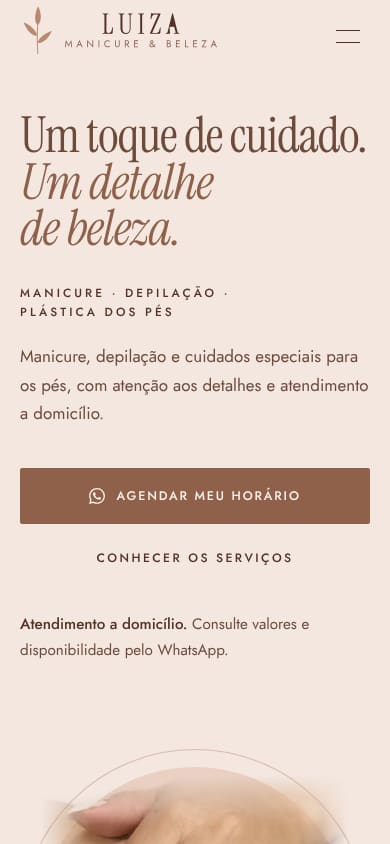
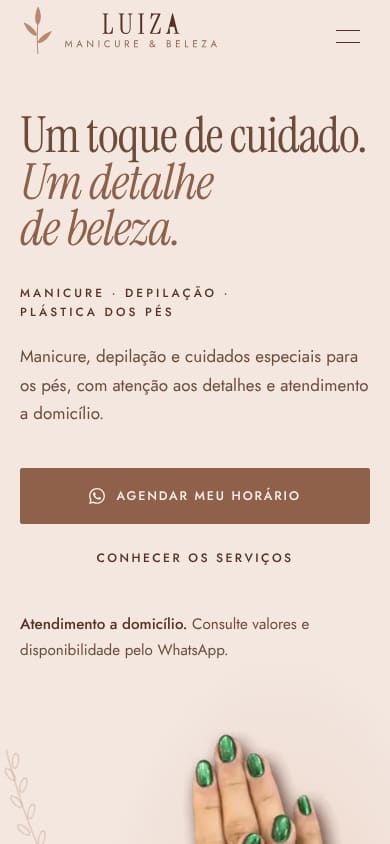
LUIZA: hero no estilo das referências com as unhas verdes
Mãos (verde metalizado) entrando pelo canto inferior direito da tela,
sem moldura, com luz de estúdio e ramo em traço fino; painel do
atendimento a domicílio com foto de fundo; galeria em fileira rolável
com as cinco fotos novas.

Claude-Session: https://claude.ai/code/session_016UG3UNeCQEzYNP7inJMp9g

Changed region(s): [[0.0923, 0.8626, 0.8615, 1.0]]

diff --git a/luiza-manicure/src/components/PortfolioGallery.tsx b/luiza-manicure/src/components/PortfolioGallery.tsx
@@ -14,6 +14,33 @@ export function PortfolioGallery() {
   const triggerRefs = useRef<(HTMLButtonElement | null)[]>([]);
   const touchX = useRef<number | null>(null);
   const lastIndex = useRef(0);
+  const rowRef = useRef<HTMLUListElement>(null);
+  const [canPrev, setCanPrev] = useState(false);
+  const [canNext, setCanNext] = useState(true);
+
+  useEffect(() => {
+    const row = rowRef.current;
+    if (!row) return;
+    const update = () => {
+      setCanPrev(row.scrollLeft > 4);
+      setCanNext(row.scrollLeft + row.clientWidth < row.scrollWidth - 4);
+    };
+    update();
+    row.addEventListener("scroll", update, { passive: true });
+    window.addEventListener("resize", update);
+    return () => {
+      row.removeEventListener("scroll", update);
+      window.removeEventListener("resize", update);
+    };
+  }, []);
+
+  const scrollRow = (dir: number) => {
+    const row = rowRef.current;
+    if (!row) return;
+    const item = row.querySelector("li");
+    const step = item ? item.getBoundingClientRect().width + 20 : row.clientWidth * 0.8;
+    row.scrollBy({ left: dir * step, behavior: "smooth" });
+  };
 
   const open = (i: number) => {
     lastIndex.current = i;
@@ -68,35 +95,62 @@ export function PortfolioGallery() {
           <p className="lede mx-auto mt-6">Conheça alguns dos trabalhos realizados pela LUIZA.</p>
         </Reveal>
 
-        <ul className="mt-14 grid grid-cols-2 gap-3 sm:gap-4 md:mt-20 lg:grid-cols-4 lg:gap-5">
-          {GALLERY.map((photo, i) => (
-            <li key={photo.id}>
-              <MaskReveal delay={i * 0.1}>
-                <button
-                  ref={(el) => {
-                    triggerRefs.current[i] = el;
-                  }}
-                  type="button"
-                  onClick={() => open(i)}
-                  className="photo-frame photo-zoom group relative block aspect-[4/5] w-full cursor-zoom-in rounded-[12px] text-left"
-                  aria-label={`Ampliar foto: ${photo.label}`}
-                  aria-haspopup="dialog"
-                >
-                  <Image src={photo.src} alt={photo.alt} fill sizes="(min-width: 1024px) 300px, 48vw" className="object-cover" />
-                  <span
-                    aria-hidden="true"
-                    className="absolute right-3 top-3 inline-flex size-10 items-center justify-center rounded-full bg-porcelana/90 text-cacau opacity-0 transition-opacity duration-300 group-hover:opacity-100 group-focus-visible:opacity-100 max-lg:opacity-100"
+        <div className="relative mt-14 md:mt-20">
+          <ul
+            ref={rowRef}
+            className="gallery-row -mx-[var(--gutter)] flex snap-x snap-mandatory gap-3 overflow-x-auto scroll-px-[var(--gutter)] px-[var(--gutter)] pb-2 sm:gap-4 lg:mx-0 lg:scroll-px-0 lg:gap-5 lg:px-0"
+            aria-label="Fotos de trabalhos"
+          >
+            {GALLERY.map((photo, i) => (
+              <li
+                key={photo.id}
+                className="w-[72%] shrink-0 snap-start sm:w-[44%] lg:w-[calc((100%-3*1.25rem)/4)]"
+              >
+                <MaskReveal delay={Math.min(i, 3) * 0.1}>
+                  <button
+                    ref={(el) => {
+                      triggerRefs.current[i] = el;
+                    }}
+                    type="button"
+                    onClick={() => open(i)}
+                    className="photo-frame photo-zoom group relative block aspect-[4/5] w-full cursor-zoom-in rounded-[12px] text-left"
+                    aria-label={`Ampliar foto: ${photo.label}`}
+                    aria-haspopup="dialog"
                   >
-                    <IconExpand size={18} />
-                  </span>
-                  <span className="caps absolute bottom-4 left-4 text-[0.66rem] text-cacau-soft opacity-0 transition-opacity duration-300 group-hover:opacity-100">
-                    {photo.label}
-                  </span>
-                </button>
-              </MaskReveal>
-            </li>
-          ))}
-        </ul>
+                    <Image src={photo.src} alt={photo.alt} fill sizes="(min-width: 1024px) 300px, 72vw" className="object-cover" />
+                    <span
+                      aria-hidden="true"
+                      className="absolute right-3 top-3 inline-flex size-10 items-center justify-center rounded-full bg-porcelana/90 text-cacau opacity-0 transition-opacity duration-300 group-hover:opacity-100 group-focus-visible:opacity-100 max-lg:opacity-100"
+                    >
+                      <IconExpand size={18} />
+                    </span>
+                  </button>
+                </MaskReveal>
+              </li>
+            ))}
+          </ul>
+          {/* setas da fileira, como na referência */}
+          <div className="mt-6 flex justify-end gap-3">
+            <button
+              type="button"
+              onClick={() => scrollRow(-1)}
+              disabled={!canPrev}
+              className="inline-flex size-12 rotate-180 items-center justify-center rounded-full border border-cacau/25 text-cacau transition-[background-color,opacity] hover:bg-tile disabled:opacity-35"
+              aria-label="Ver fotos anteriores"
+            >
+              <IconChevron size={20} />
+            </button>
+            <button
+              type="button"
+              onClick={() => scrollRow(1)}
+              disabled={!canNext}
+              className="inline-flex size-12 items-center justify-center rounded-full border border-cacau/25 text-cacau transition-[background-color,opacity] hover:bg-tile disabled:opacity-35"
+              aria-label="Ver mais fotos"
+            >
+              <IconChevron size={20} />
+            </button>
+          </div>
+        </div>
       </div>
 
       <dialog

diff --git a/luiza-manicure/src/components/Hero.tsx b/luiza-manicure/src/components/Hero.tsx
@@ -5,52 +5,24 @@ import { WhatsAppButton } from "./WhatsAppButton";
 
 const d = (i: number) => ({ "--i": i }) as React.CSSProperties;
 
-/** Composição: arco nude com as mãos reais (fundo removido) subindo da base. */
-function HeroVisual({ className = "" }: { className?: string }) {
-  const photo = PHOTOS.hero;
-  return (
-    <div className={`relative overflow-hidden ${className}`}>
-      {/* ramos atrás do arco: aparecem só pelas bordas */}
-      <Sprig className="arch-in-late pointer-events-none absolute bottom-[2%] left-[1%] h-[48%] w-auto -rotate-[16deg] text-rose sm:left-[4%]" />
-      <Sprig className="arch-in-late pointer-events-none absolute right-[1%] top-[14%] h-[34%] w-auto rotate-[168deg] -scale-x-100 text-rose/80 sm:right-[4%]" />
-      {/* arco de fundo + contorno fino */}
-      <div
-        aria-hidden="true"
-        className="hero-arch arch-in absolute bottom-0 left-1/2 h-[86%] w-[80%] max-w-[500px] -translate-x-1/2 rounded-t-full"
-      />
-      <div
-        aria-hidden="true"
-        className="arch-in-late absolute bottom-0 left-1/2 h-[calc(86%+18px)] w-[calc(80%+36px)] max-w-[536px] -translate-x-1/2 rounded-t-full border border-b-0 border-rose/45"
-      />
-      <div className="hands-in absolute inset-x-0 bottom-[6%] flex h-[78%] justify-center">
-        <Image
-          src={photo.src}
-          alt={photo.alt}
-          width={photo.width}
-          height={photo.height}
-          preload
-          fetchPriority="high"
-          sizes="(min-width: 1024px) 520px, 72vw"
-          className="hero-hands h-full w-auto max-w-none select-none"
-          draggable={false}
-        />
-      </div>
-      <p className="caps absolute bottom-5 right-3 z-10 hidden bg-blush/92 px-3.5 py-1.5 text-[0.66rem] text-cacau backdrop-blur-sm sm:block lg:bottom-8 lg:right-0">
-        Trabalho real da Luiza
-      </p>
-    </div>
-  );
-}
-
+/**
+ * Hero no estilo das referências (Maison Nail Atelier / Nail Concept):
+ * texto à esquerda e as mãos reais entrando pelo canto inferior direito da tela,
+ * sobre o mesmo fundo da página, com luz suave de estúdio.
+ */
 export function Hero() {
+  const photo = PHOTOS.hero;
   return (
     <section
       id="inicio"
       aria-labelledby="hero-title"
-      className="relative bg-blush pt-[var(--header-h)]"
+      className="relative isolate overflow-x-clip bg-blush pt-[var(--header-h)] lg:min-h-[min(100svh,960px)]"
     >
-      <div className="shell grid lg:min-h-[calc(min(100svh,940px)-var(--header-h))] lg:grid-cols-12 lg:gap-x-8">
-        <div className="relative z-10 pb-10 pt-10 sm:pt-16 lg:col-span-6 lg:self-center lg:py-24">
+      {/* luz de estúdio atrás das mãos */}
+      <div aria-hidden="true" className="hero-glow absolute inset-0 -z-10" />
+
+      <div className="shell relative z-10 grid lg:min-h-[calc(min(100svh,960px)-var(--header-h))] lg:grid-cols-12">
+        <div className="pb-6 pt-10 sm:pt-16 lg:col-span-6 lg:self-center lg:py-24 lg:pr-6">
           <h1 id="hero-title" className="display text-cacau-soft lg:text-[clamp(3.4rem,5vw,4.9rem)]">
             <span className="enter block" style={d(0)}>
               Um toque de cuidado.
@@ -81,8 +53,27 @@ export function Hero() {
             disponibilidade pelo WhatsApp.
           </p>
         </div>
+      </div>
 
-        <HeroVisual className="-mx-[var(--gutter)] h-[min(116vw,600px)] sm:mx-0 lg:col-span-6 lg:h-auto lg:min-h-[560px]" />
+      {/* Mãos reais entrando pelo canto inferior direito */}
+      <div className="relative h-[min(124vw,560px)] overflow-hidden sm:h-[600px] lg:absolute lg:bottom-0 lg:right-0 lg:top-[var(--header-h)] lg:h-auto lg:w-[50%]">
+        <Sprig className="arch-in-late pointer-events-none absolute left-[6%] top-[10%] h-[34%] w-auto -rotate-[24deg] text-rose/70 lg:left-[8%] lg:top-[14%]" />
+        <div className="hands-in absolute bottom-0 right-0 h-[96%] lg:h-[94%]">
+          <Image
+            src={photo.src}
+            alt={photo.alt}
+            width={photo.width}
+            height={photo.height}
+            preload
+            fetchPriority="high"
+            sizes="(min-width: 1024px) 560px, 80vw"
+            className="h-full w-auto max-w-none select-none"
+            draggable={false}
+          />
+        </div>
+        <p className="caps absolute bottom-6 left-[var(--gutter)] z-10 bg-blush/92 px-3.5 py-1.5 text-[0.66rem] text-cacau backdrop-blur-sm lg:bottom-auto lg:left-auto lg:right-[calc(max(0px,(100vw_-_1280px)/2)_+_var(--gutter))] lg:top-6">
+          Trabalho real da Luiza
+        </p>
       </div>
 
       {/* Monograma em cápsula na divisa com a faixa de diferenciais */}

diff --git a/luiza-manicure/src/components/HomeService.tsx b/luiza-manicure/src/components/HomeService.tsx
@@ -1,40 +1,25 @@
-"use client";
-
-import { m } from "motion/react";
+import Image from "next/image";
 import { SYMBOL } from "@/lib/brand-paths";
+import { PHOTOS } from "@/lib/photos";
 import { Reveal } from "./Reveal";
 import { WhatsAppButton } from "./WhatsAppButton";
 
-const EASE = [0.22, 0.61, 0.36, 1] as const;
-
-/** Painel grande com texto centralizado (estilo editorial), arcos finos ao fundo. */
+/** Painel com foto grande e texto centralizado por cima (estilo editorial das referências). */
 export function HomeService() {
+  const photo = PHOTOS.vinho;
   return (
     <section id="domicilio" aria-labelledby="domicilio-title" className="bg-porcelana pb-[clamp(84px,11vw,150px)]">
       <div className="shell">
-        <div className="on-dark relative isolate overflow-hidden rounded-[18px] bg-taupe px-6 py-20 text-center text-porcelana sm:px-12 md:py-28">
-          {/* arcos de porta, desenhados ao entrar na tela */}
-          <svg
-            aria-hidden="true"
-            viewBox="0 0 400 300"
-            preserveAspectRatio="xMidYMax meet"
-            className="pointer-events-none absolute inset-x-0 bottom-0 -z-10 mx-auto h-[92%] w-full max-w-[720px] opacity-60"
-          >
-            {[0, 1, 2].map((i) => (
-              <m.path
-                key={i}
-                d={`M${80 - i * 34} 300 V${150 + i * 6} A${120 + i * 34} ${120 + i * 34} 0 0 1 ${320 + i * 34} ${150 + i * 6} V300`}
-                fill="none"
-                stroke="var(--color-nude)"
-                strokeOpacity={0.5 - i * 0.14}
-                strokeWidth="0.8"
-                initial={{ pathLength: 0 }}
-                whileInView={{ pathLength: 1 }}
-                viewport={{ once: true, margin: "0px 0px -15% 0px" }}
-                transition={{ duration: 2.2, ease: EASE, delay: i * 0.2 }}
-              />
-            ))}
-          </svg>
+        <div className="on-dark relative isolate overflow-hidden rounded-[18px] px-6 py-24 text-center text-porcelana sm:px-12 md:py-32">
+          <Image
+            src={photo.src}
+            alt=""
+            fill
+            sizes="(min-width: 1280px) 1200px, 100vw"
+            className="-z-20 object-cover object-[50%_35%]"
+          />
+          {/* véu cacau para leitura do texto sobre a foto */}
+          <div aria-hidden="true" className="absolute inset-0 -z-10 bg-[linear-gradient(180deg,rgb(63_36_26/0.7),rgb(63_36_26/0.8))]" />
 
           <Reveal className="mx-auto max-w-3xl">
             <svg viewBox={SYMBOL.viewBox} aria-hidden="true" className="mx-auto h-12 w-auto">
@@ -44,7 +29,7 @@ export function HomeService() {
             <h2 id="domicilio-title" className="h2 mt-8 text-porcelana">
               Seu momento de beleza, <span className="serif-italic block text-nude">no conforto da sua casa.</span>
             </h2>
-            <p className="mx-auto mt-7 max-w-[32rem] text-[1.08rem] leading-relaxed text-porcelana/85">
+            <p className="mx-auto mt-7 max-w-[32rem] text-[1.08rem] leading-relaxed text-porcelana/90">
               Mais praticidade para sua rotina, com atendimento personalizado e o cuidado que você merece.
             </p>
             <p className="caps mt-9 text-nude">
@@ -55,7 +40,7 @@ export function HomeService() {
               <WhatsAppButton variant="light" message="domicilio" event="domicilio_whatsapp_click">
                 Consultar atendimento a domicílio
               </WhatsAppButton>
-              <p className="text-[0.9rem] text-porcelana/80">Informe seu bairro para verificar a disponibilidade.</p>
+              <p className="text-[0.9rem] text-porcelana/85">Informe seu bairro para verificar a disponibilidade.</p>
             </div>
           </Reveal>
         </div>

diff --git a/luiza-manicure/src/app/globals.css b/luiza-manicure/src/app/globals.css
@@ -316,23 +316,22 @@ a {
   animation: monogram-in 1000ms var(--ease-out) 900ms both;
 }
 
-/* Arco da Hero: nude mais profundo com luz suave no alto, para as mãos destacarem */
-.hero-arch {
-  background:
-    radial-gradient(120% 70% at 50% 18%, rgb(255 248 243 / 0.55), transparent 62%),
-    color-mix(in oklab, var(--color-nude) 82%, var(--color-rose) 18%);
+/* Luz de estúdio da Hero: halo nude atrás das mãos */
+.hero-glow {
+  background: radial-gradient(70% 45% at 72% 88%, color-mix(in oklab, var(--color-nude) 70%, transparent), transparent 72%);
+}
+@media (min-width: 1024px) {
+  .hero-glow {
+    background: radial-gradient(38% 58% at 78% 64%, color-mix(in oklab, var(--color-nude) 72%, transparent), transparent 72%);
+  }
 }
 
-/* Mãos da Hero: os braços somem suavemente nas laterais e no alto */
-.hero-hands {
-  -webkit-mask-image:
-    linear-gradient(to right, transparent 0%, #000 16%, #000 84%, transparent 100%),
-    linear-gradient(to bottom, transparent 0%, #000 14%);
-  -webkit-mask-composite: source-in;
-  mask-image:
-    linear-gradient(to right, transparent 0%, #000 16%, #000 84%, transparent 100%),
-    linear-gradient(to bottom, transparent 0%, #000 14%);
-  mask-composite: intersect;
+/* Fileira da galeria: rolagem horizontal sem barra visível */
+.gallery-row {
+  scrollbar-width: none;
+}
+.gallery-row::-webkit-scrollbar {
+  display: none;
 }
 
 /* Quadros de foto */

diff --git a/luiza-manicure/src/lib/photos.ts b/luiza-manicure/src/lib/photos.ts
@@ -22,6 +22,11 @@ const p = (id: keyof typeof meta, alt: string, label: string): Photo => ({
 export const PHOTOS = {
   hero: p(
     "hero",
+    "Mãos sobrepostas e erguidas com unhas arredondadas em verde metalizado com reflexo cromado.",
+    "Verde metalizado",
+  ),
+  rosa: p(
+    "rosa-leitoso",
     "Mãos sobrepostas com unhas amendoadas em rosa leitoso translúcido e anéis prateados.",
     "Rosa leitoso",
   ),
@@ -43,4 +48,4 @@ export const PHOTOS = {
   ),
 } as const;
 
-export const GALLERY: Photo[] = [PHOTOS.vinho, PHOTOS.chocolate, PHOTOS.vermelho, PHOTOS.lilas];
+export const GALLERY: Photo[] = [PHOTOS.rosa, PHOTOS.vinho, PHOTOS.chocolate, PHOTOS.vermelho, PHOTOS.lilas];

diff --git a/luiza-manicure/README.md b/luiza-manicure/README.md
@@ -58,11 +58,12 @@ Símbolo botânico de três folhas redesenhado em vetor + "LUIZA" em Cormorant c
 ---
 
 ## 2. Fotografias
-Cinco fotos reais da profissional (segundo lote enviado pela cliente; o primeiro lote foi descartado).
+Fotos reais da profissional, cores sem retoque.
 
-- **Galeria:** vermelho-vinho com plantas, chocolate na prateleira de esmaltes, vermelho vivo e lilás. Fotos naturais, só enquadradas em 4:5 e comprimidas; **cores sem retoque**.
-- **Hero:** rosa leitoso. O fundo foi removido offline (`@imgly/background-removal-node`) para as mãos ficarem sobre o arco da marca; foi apagada à mão uma faixa da calça que aparecia entre os dedos. Mãos, unhas e cores sem retoque.
-- Originais em `source-photos/*.jpg`, recorte em `source-photos/recortes/rosa-leitoso.png`. `npm run assets` gera tudo em `public/photos/` com hash do conteúdo no nome (evita cache de versões antigas).
+- **Hero:** verde metalizado. O fundo foi removido offline (`@imgly/background-removal-node`) e as mãos entram pelo canto inferior direito da tela, sobre o fundo da página, como nas referências Maison Nail Atelier e Nail Concept.
+- **Galeria (fileira rolável com setas, como na The Nail Edit):** rosa leitoso, vermelho-vinho com plantas, chocolate na prateleira de esmaltes, vermelho vivo e lilás. Fotos naturais, só enquadradas em 4:5.
+- **Atendimento a domicílio:** a foto vermelho-vinho com plantas ao fundo do painel, sob um véu cacau para leitura do texto.
+- Originais em `source-photos/*.jpg`, recortes em `source-photos/recortes/`. `npm run assets` gera tudo em `public/photos/` com hash do conteúdo no nome.
 
 Nenhuma foto de unha representa depilação ou plástica dos pés: esses serviços usam ícones desenhados. Nenhuma imagem foi gerada por IA.
 
